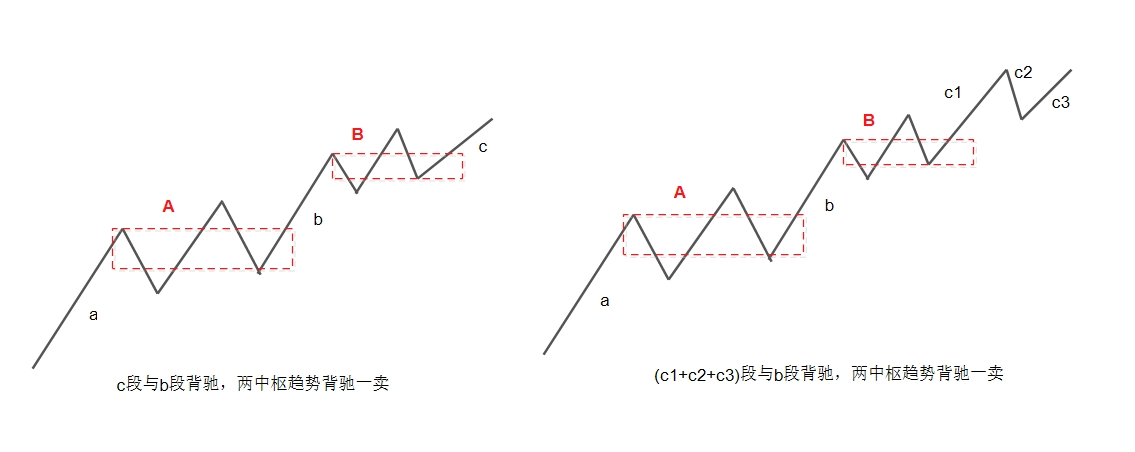
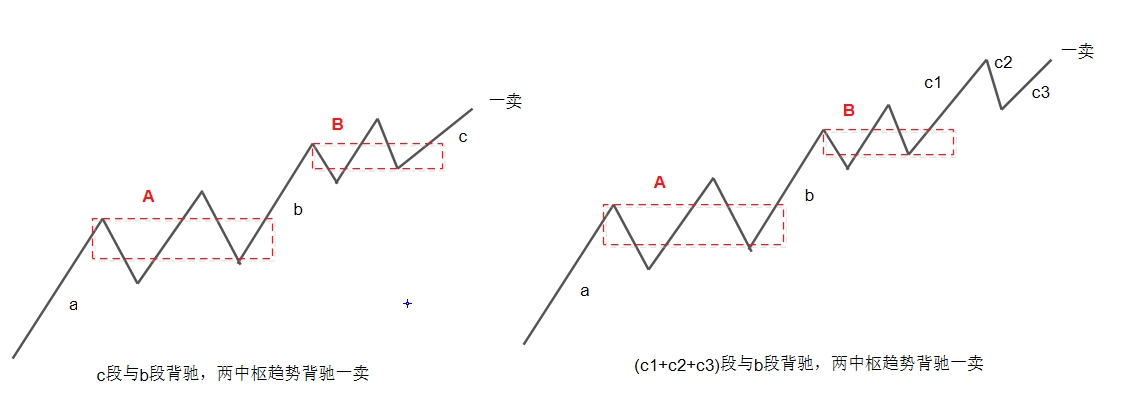
买卖

diff --git a/stocks/缠中说禅/4.1-缠论三大买卖点的定位和止损.md b/stocks/缠中说禅/4.1-缠论三大买卖点的定位和止损.md
@@ -1,0 +1,6 @@
+# 缠论三大买卖点的定位和止损
+
+参考：
+
+- [图文推理解读缠论三大买卖点的定位和止损](https://zhuanlan.zhihu.com/p/670013099)
+
